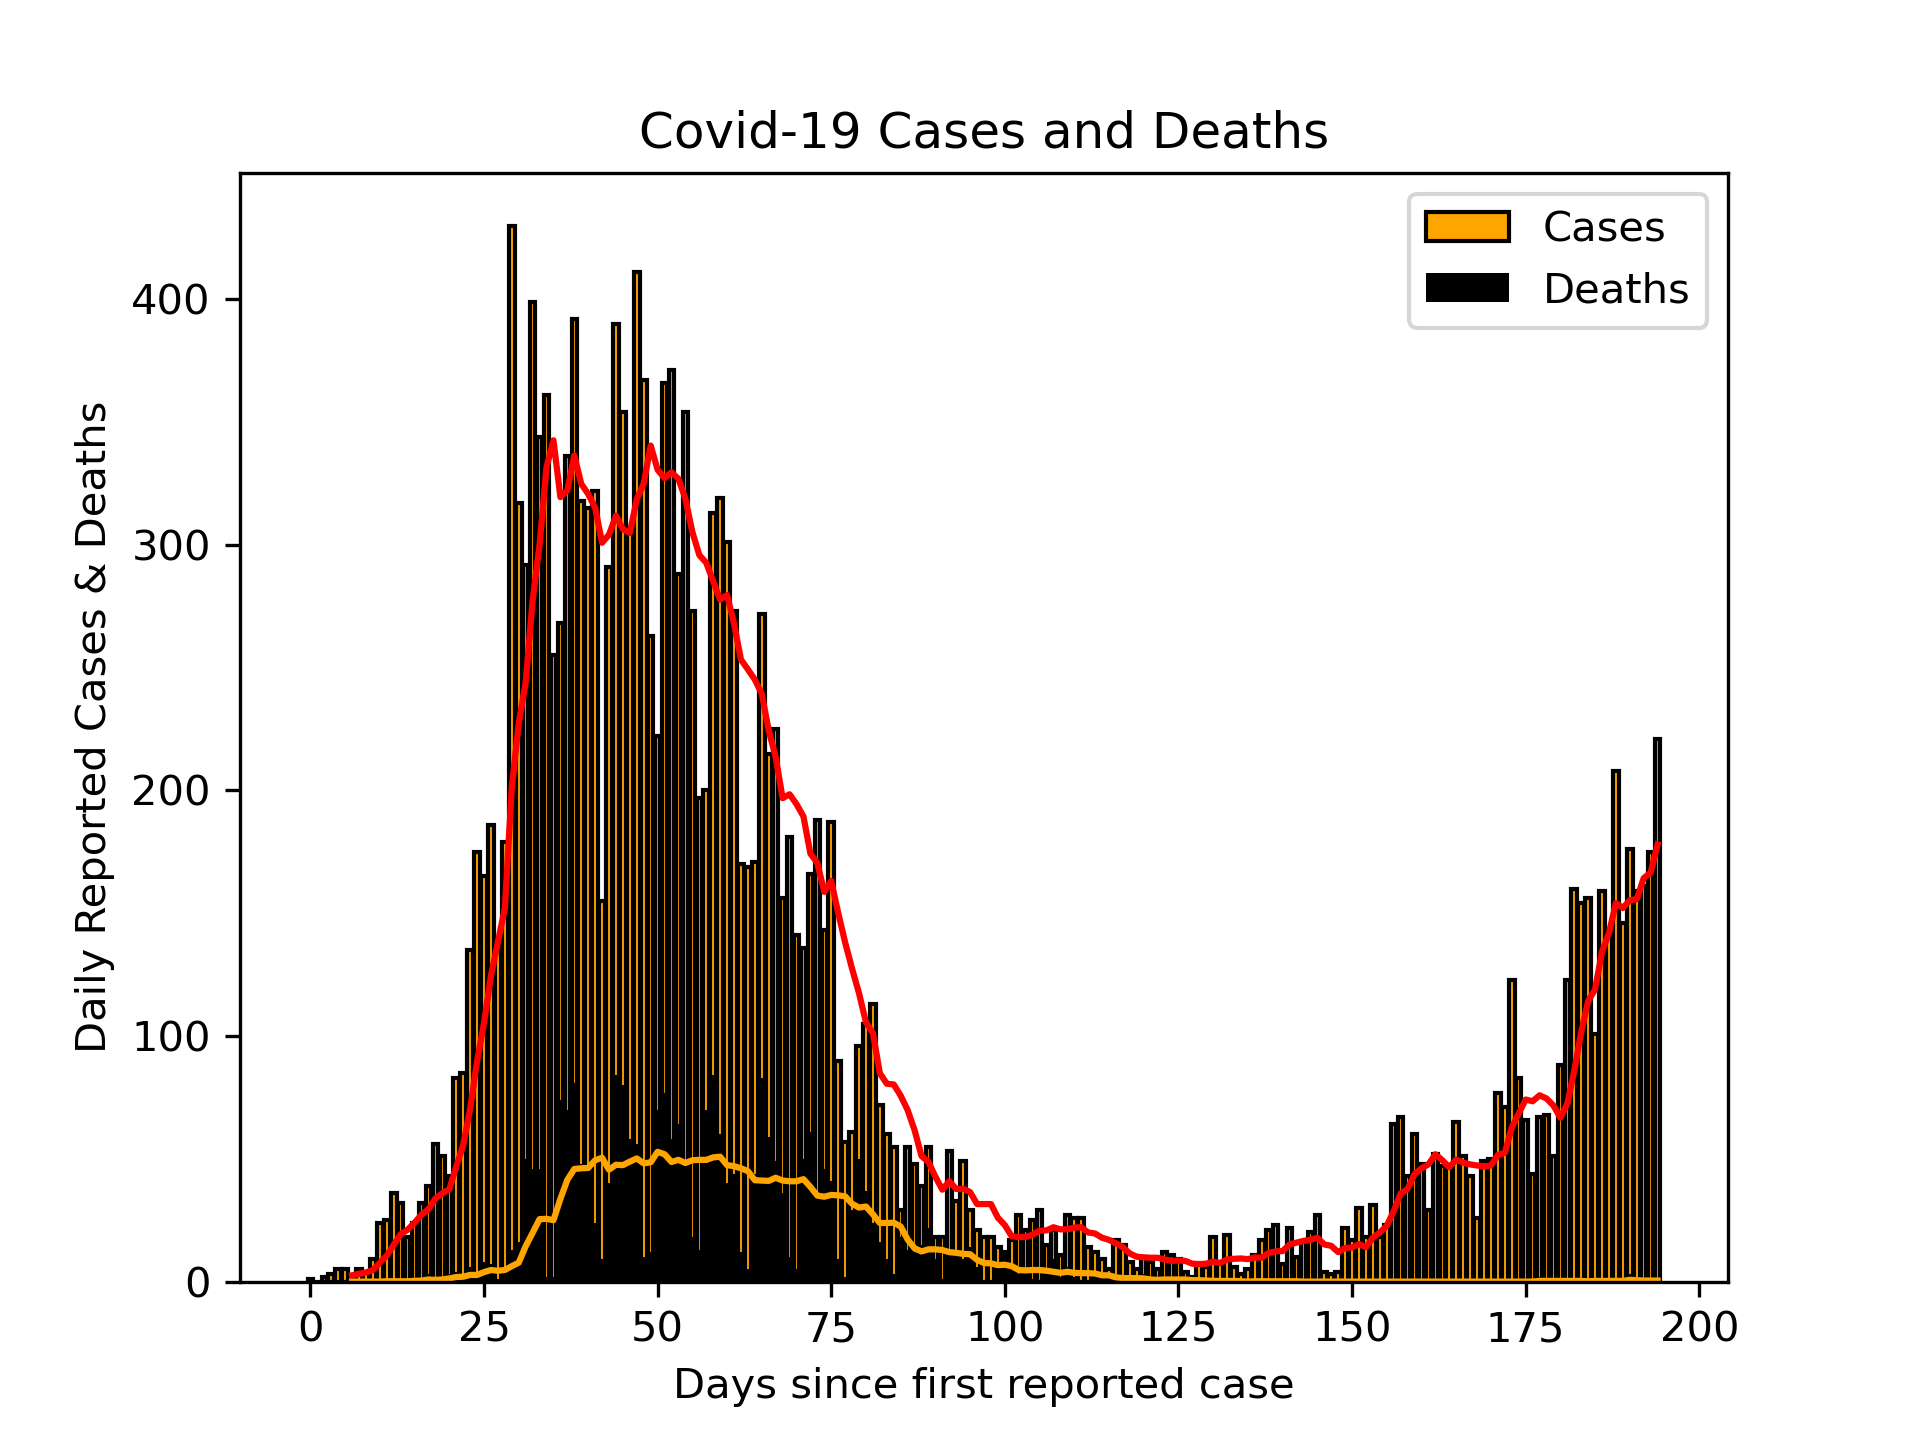
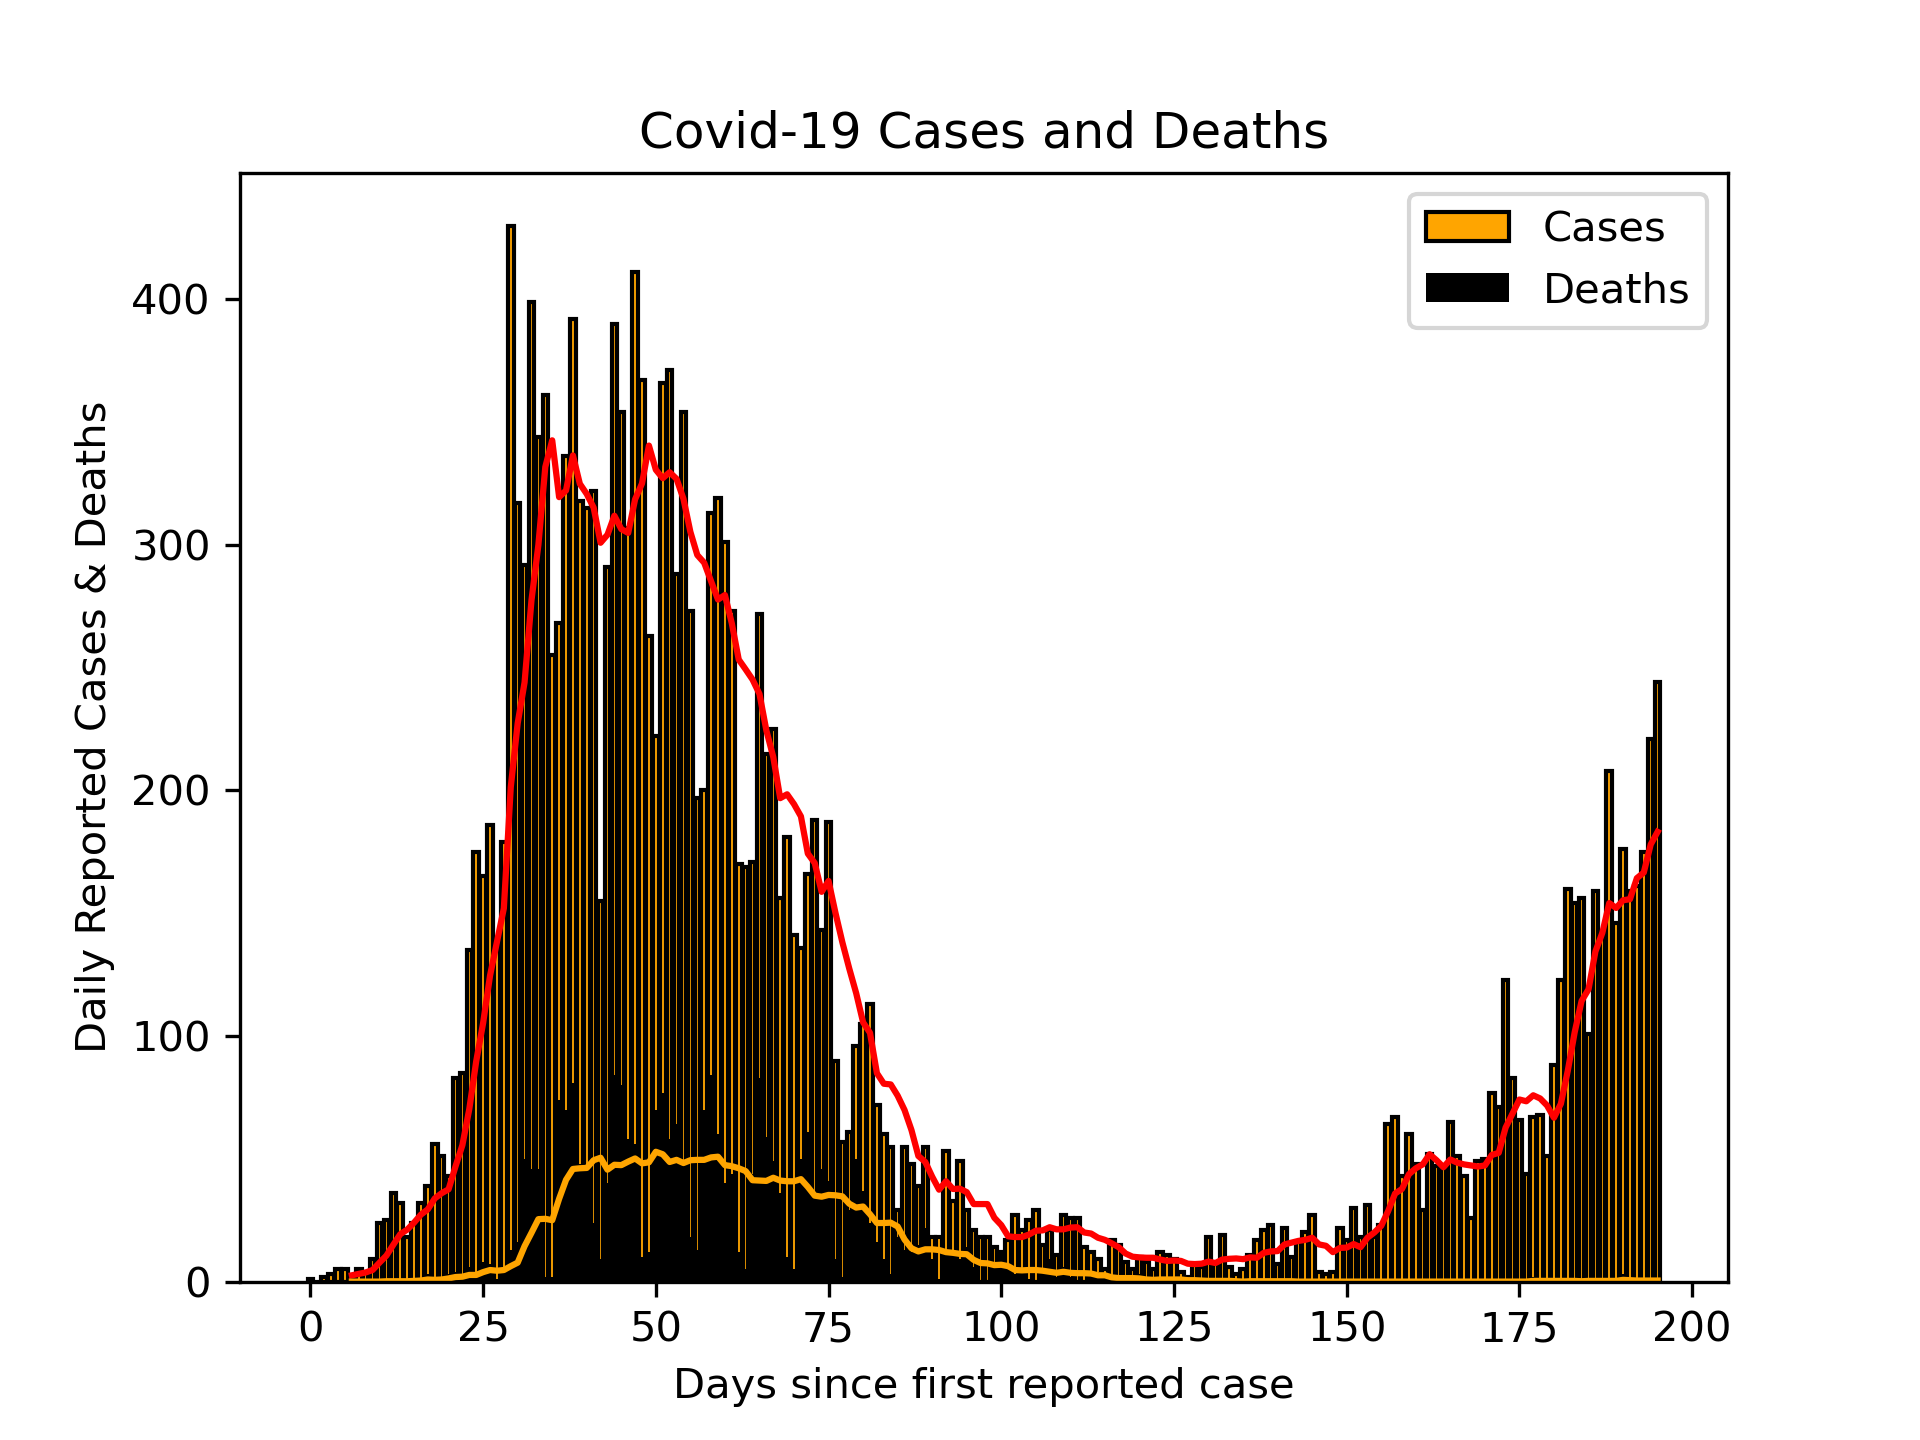
Updated Scottish cases 13/09/20

Changed region(s): [[0.1875, 0.1875, 0.875, 0.9375], [0.8438, 0.9062, 0.9062, 0.9375], [0.4062, 0.9062, 0.4375, 0.9375]]

diff --git a/README.md b/README.md
@@ -1,3 +1,3 @@
-# Scottish Cases 12/09/20
+# Scottish Cases 13/09/20
 ![alt](scottish_cases.png)
 
